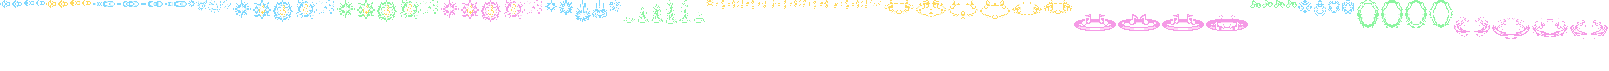
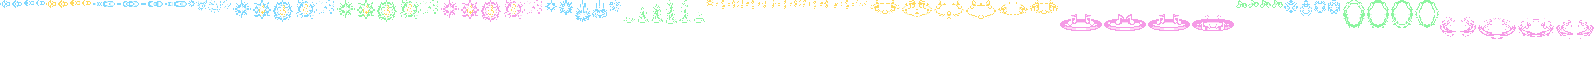
Sona: her auras' notes stay upright on the red side
Each Melody's ring (musical notes rising off its top edge) was the
picture of the ApplyInProjectile that follows her; a projectile's
picture is turned with its direction, so on a leftward one the notes
hung down. The auras are now league_sona_{q,w,e}_aura_zone with no
picture, and each ring plays as a CasterViewEffect next to its aura, at
the action's own tick with is_follow true (it rides on her; a caster
picture is mirrored by her facing, which a ring does not mind).

As a caster picture an Animation plays its tag once, so import_sona.py
holds each ring tag for the aura's 180 ticks (its six-frame loop
repeated, 25 x 120 ms). strips.write_sheet gets `share`: a frame
identical to one already packed points at its squares, so the longer
tags cost no sheet (league_sona_big's picture unchanged; league_sona_fx
packs a few identical frames once, every tag frame-for-frame the same).
Parsed with the SDK's types.

Changed region(s): [[0.0, 0.0, 0.6759, 0.338], [0.768, 0.0, 0.9831, 0.507], [0.6451, 0.1972, 0.7987, 0.4507]]

diff --git a/tools/art/import_sona.py b/tools/art/import_sona.py
@@ -44,6 +44,7 @@ OVERHEAD = (0, -31)            # over a 35-40 px hero's crown
 LIFT = (0, -40)                # the etwahl over her head in R's frames 3-5
 GROUND = 9                     # a ring round the feet: its ellipse's middle 2 px over the soles
 AURA = 45000                   # the Melody's radius (league_sona.data_champion)
+AURA_TICKS = 180               # its life (league_sona.data_champion: the ApplyInProjectile's tick)
 # name: factor other than 1/2. Halved, the slow's staff ring (21 px) and the haste's wind (19 px) hid behind a
 # 34 px hero; R's burst (19 px) was smaller than the etwahl it bursts on (34 px)
 SCALE = {"pc_tempo": 1, "e_ally": 1, "r_cast": 1}
@@ -216,7 +217,11 @@ def build():
     big = {"r_wave": seq(centred(cells("r_wave")), 80), "r_cast": seq(at(cells("r_cast"), LIFT), 80)}
     for name in RINGS:
         frames, mid = ring(name)
-        big[name] = seq(round_feet(frames, mid), 120)
+        # the aura's picture rides on Sona as a CasterViewEffect played with the aura (2026-10-05: as its follow-zone's
+        # view it was turned with the zone, upside down whenever the zone took a leftward direction): one play of the
+        # tag covers the aura's 180 ticks, the loop's six frames repeated (25 x 120 ms), sharing their squares
+        loop = round_feet(frames, mid)
+        big[name] = seq([loop[k % len(loop)] for k in range(AURA_TICKS * 1000 // 60 // 120)], 120)
     return {"league_sona_fx": fx, "league_sona_big": big}
 
 
@@ -254,7 +259,7 @@ def main():
     args = ap.parse_args()
     sheets = build()
     for sprite, tags in sheets.items():
-        w, h = G.write_sheet(os.path.join(MOD, "effects", sprite), tags)
+        w, h = G.write_sheet(os.path.join(MOD, "effects", sprite), tags, share=True)
         print(f"league/effects/{sprite}#sheet.png {w}x{h}: " + ", ".join(
             f"{t} {len(v)}f {sum(m for _, m in v)}ms" for t, v in tags.items()))
     if args.review:

diff --git a/.claude/skills/tfm2-hero-mod/scripts/strips.py b/.claude/skills/tfm2-hero-mod/scripts/strips.py
@@ -678,16 +678,24 @@ def centre_frame(arr, u0, r0):
     return out
 
 
-def write_sheet(path_stem, tags, gap=1, max_w=2048):
+def write_sheet(path_stem, tags, gap=1, max_w=2048, share=False):
     """tags: {tag: [(frame_array, duration_ms), ...]} -> path_stem#sheet.png + path_stem#anim.fanim.
-    Frames are shelf-packed left to right (1 px gaps), a new shelf when max_w is reached."""
+    Frames are shelf-packed left to right (1 px gaps), a new shelf when max_w is reached; with share, a frame
+    identical to one already packed points at its squares (a loop repeated to hold a picture costs no sheet)."""
     rects, x, y, shelf_h = [], 0, 0, 0
+    seen = {}
     for tag, frames in tags.items():
         for arr, _ in frames:
+            key = (arr.shape, arr.tobytes()) if share else None
+            if key is not None and key in seen:
+                rects.append(seen[key])
+                continue
             h, w = arr.shape[:2]
             if x and x + w > max_w:
                 x, y, shelf_h = 0, y + shelf_h + gap, 0
             rects.append((x, y, w, h))
+            if key is not None:
+                seen[key] = rects[-1]
             x += w + gap
             shelf_h = max(shelf_h, h)
     W = max(r[0] + r[2] for r in rects)
